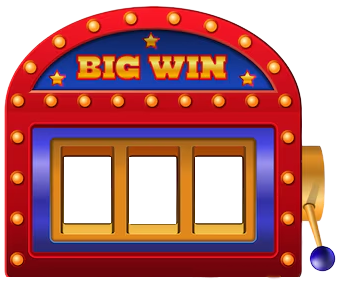
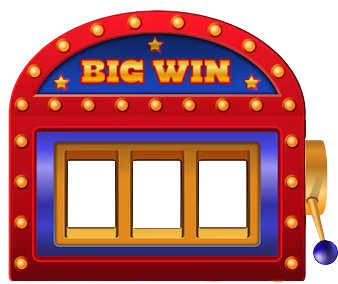
arreglo máquina tragaperras para que tenga mismo tamaño y encaje todo bien

diff --git a/juego/juego.css b/juego/juego.css
@@ -65,34 +65,40 @@ main {
     align-items: center;
 }
 
+.tragaperras .background {
+    top: 50%;
+    width: 250px;
+    height: 120px;
+    z-index: -2;
+    background-color: #e8be46;
+    position: absolute;
+}
+
 .tarjetas {
     position: absolute;
-    top: 45%;
+    top: 50%;
     z-index: -1;
-    width: 200px;
     height: 100px;
     display: flex;
-    gap: 0.5rem;
+    gap: 0.8rem;
     justify-content: center;
     align-items: center;
-    background-color: #e8be46;
-    margin-right: 50px;
+    margin-right: 28px;
+}
+
+.tarjeta {
+    width: 50px;
+    height: 50px;
 }
 
 .tarjeta img {
     width: 50px;
     height: 50px;
-    object-fit: contain;
-    /* margin-right: 20px; */
+    object-fit: cover;
 }
 
 .maquina {
     z-index: 1;
-}
-
-.maquina-abajo {
-    margin-left: 8px;
-    margin-top: 44.4px;
 }
 
 dialog {
@@ -107,8 +113,6 @@ dialog {
     padding: 5px;
 }
 
-
-
 @keyframes spin {
     0% {
         transform: translateY(0);
@@ -119,7 +123,7 @@ dialog {
     }
 }
 
-.tarjeta.spin {
+.tarjeta.spin img {
     animation: spin 5s infinite;
 }
 

diff --git a/juego/juego.html b/juego/juego.html
@@ -46,7 +46,10 @@
             <source src="../sonidos/sonido_tragaperras.mp3" type="audio/mpeg" />
         </audio>
         <div class="tragaperras">
-            <img class="maquina" id="maquina" src="../Imagenes/complementos/maquinaArriba.png" alt="maquinaArriba" />
+            <img class="maquina" id="maquina"
+            src="../Imagenes/complementos/maquinaArriba.png" alt="maquinaArriba"
+            />
+            <div class="background"></div>
             <section class="tarjetas">
                 <div value="compis" class="tarjeta">
                     <img id="imagen_compis" src="" class="imagenes_tarjetas" alt="compis" />

diff --git a/juego/girar_imagenes.js b/juego/girar_imagenes.js
@@ -1,6 +1,6 @@
 
 export function girarImagenes() {
-  const carrete = document.querySelectorAll(".tarjeta");
+  const carrete = document.querySelectorAll(".imagenes_tarjetas");
 
   carrete.forEach(carrete => {
     carrete.classList.add("spin");
